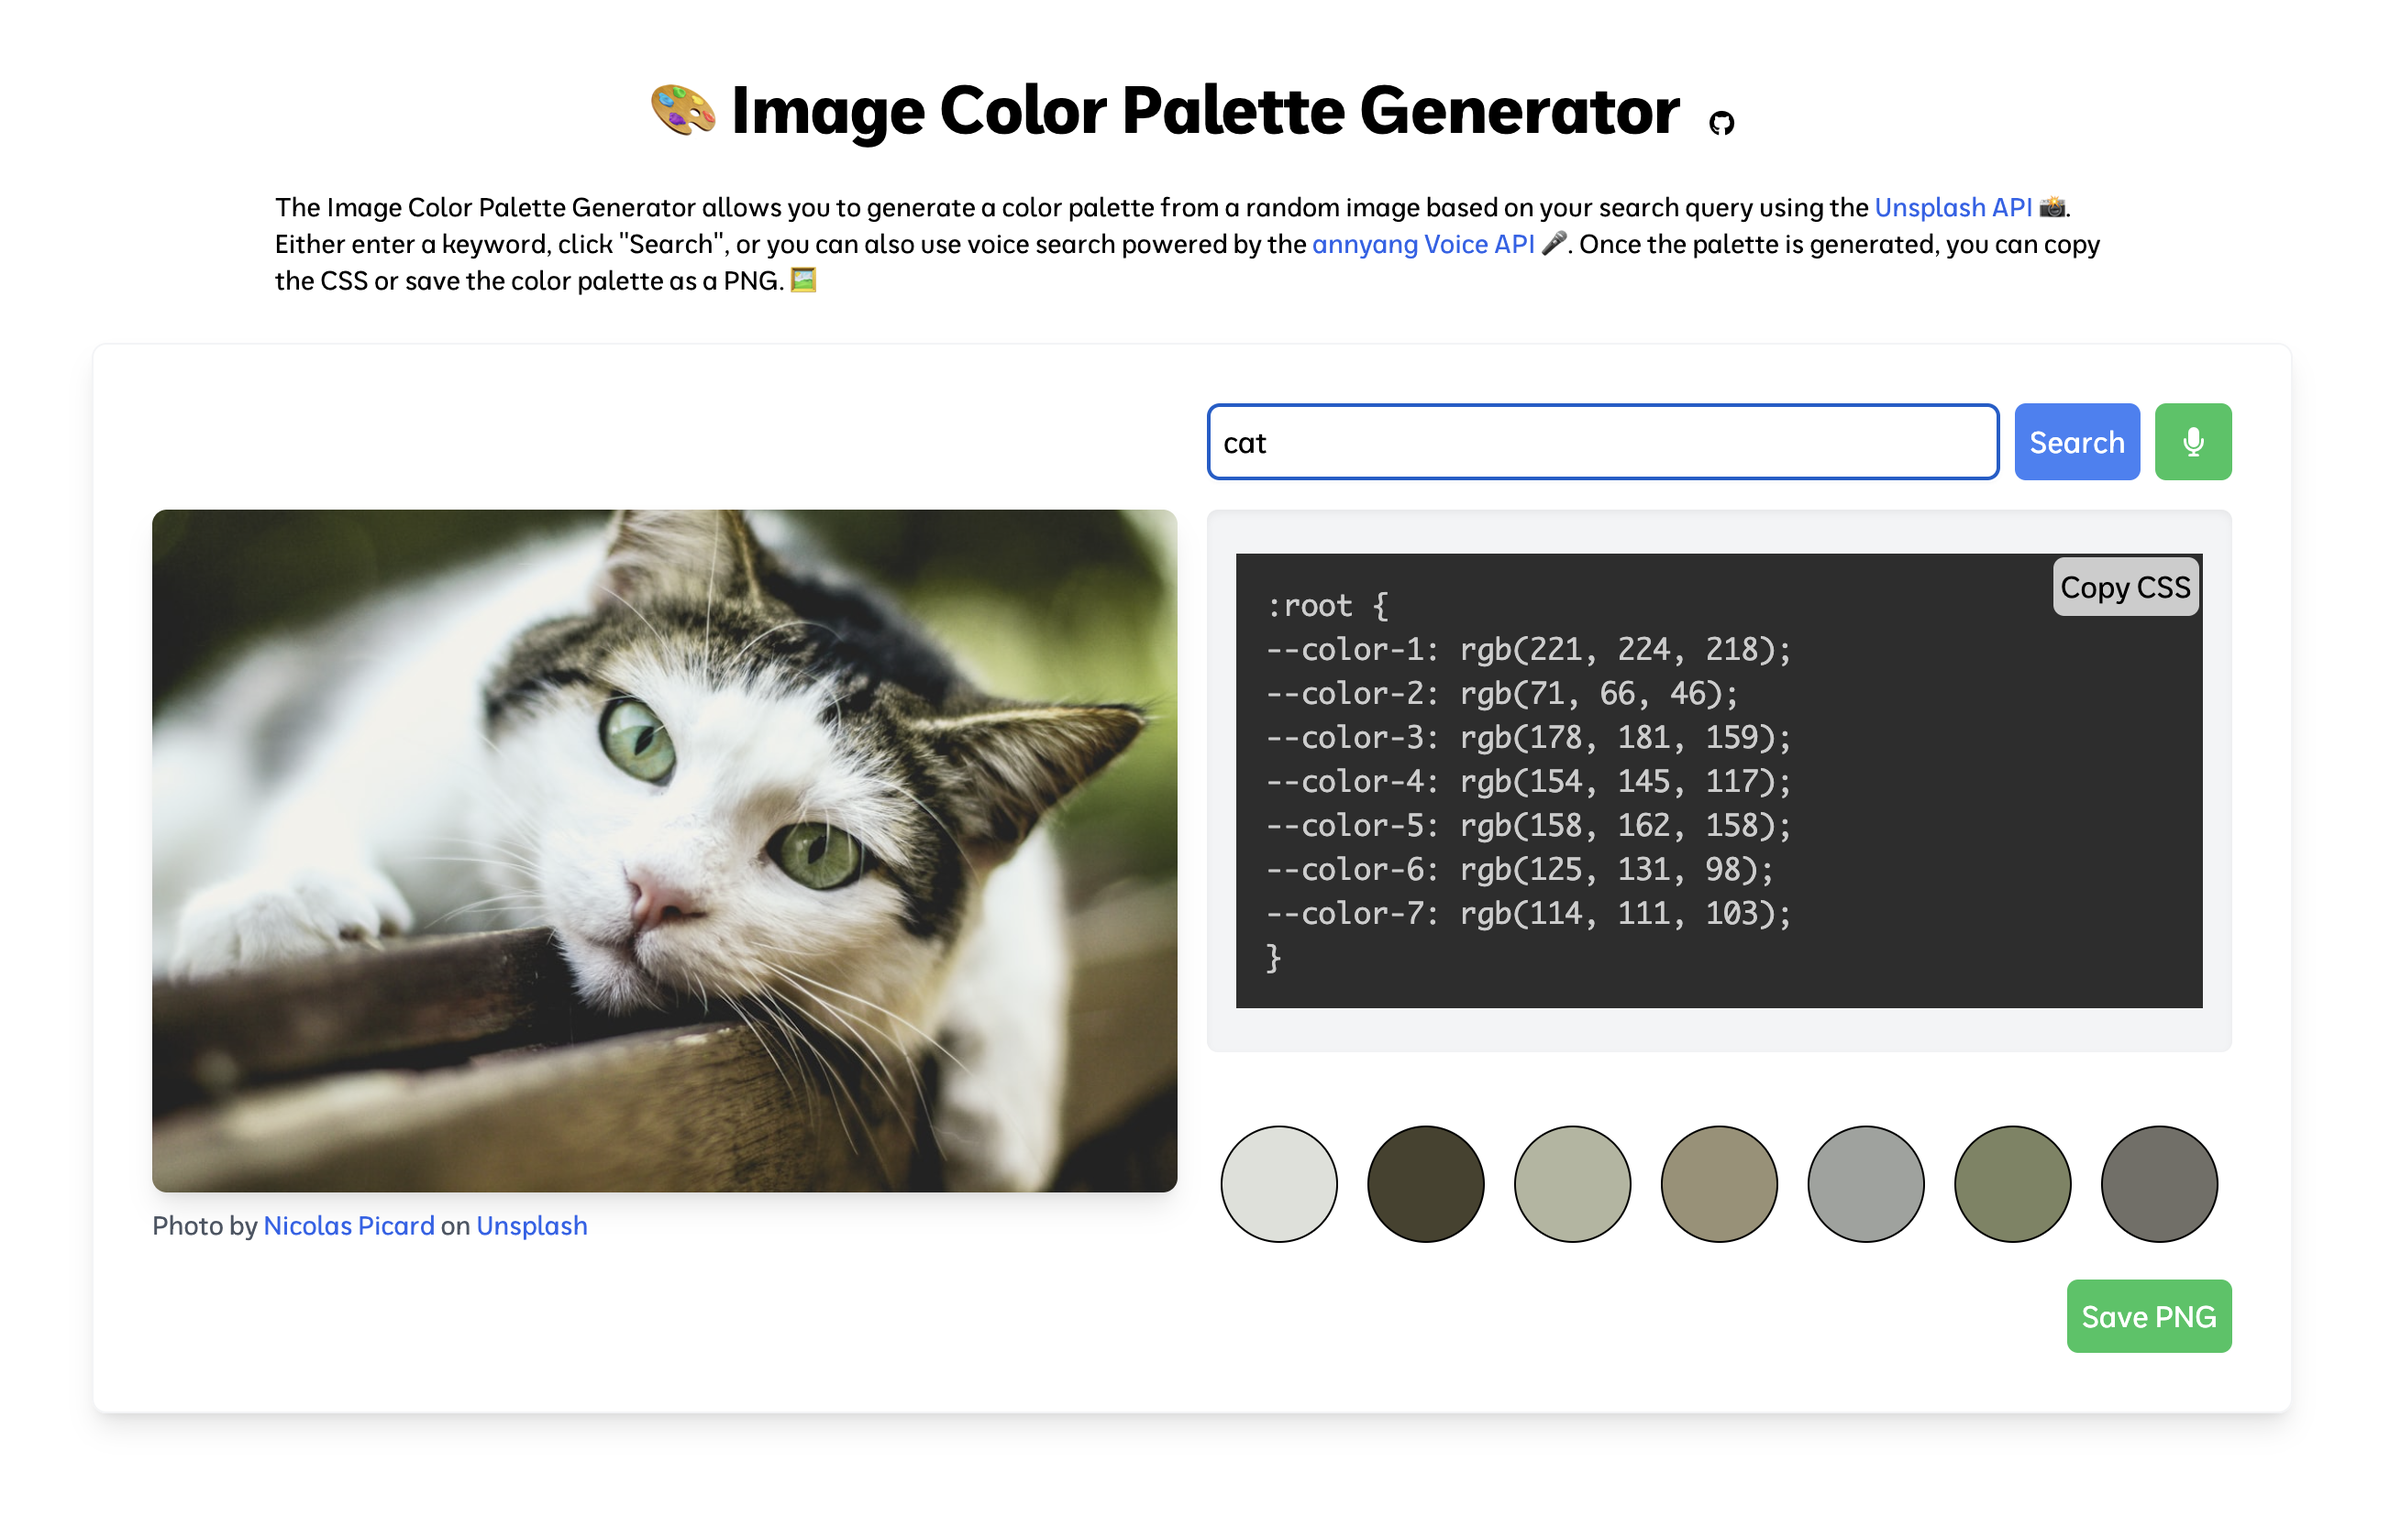
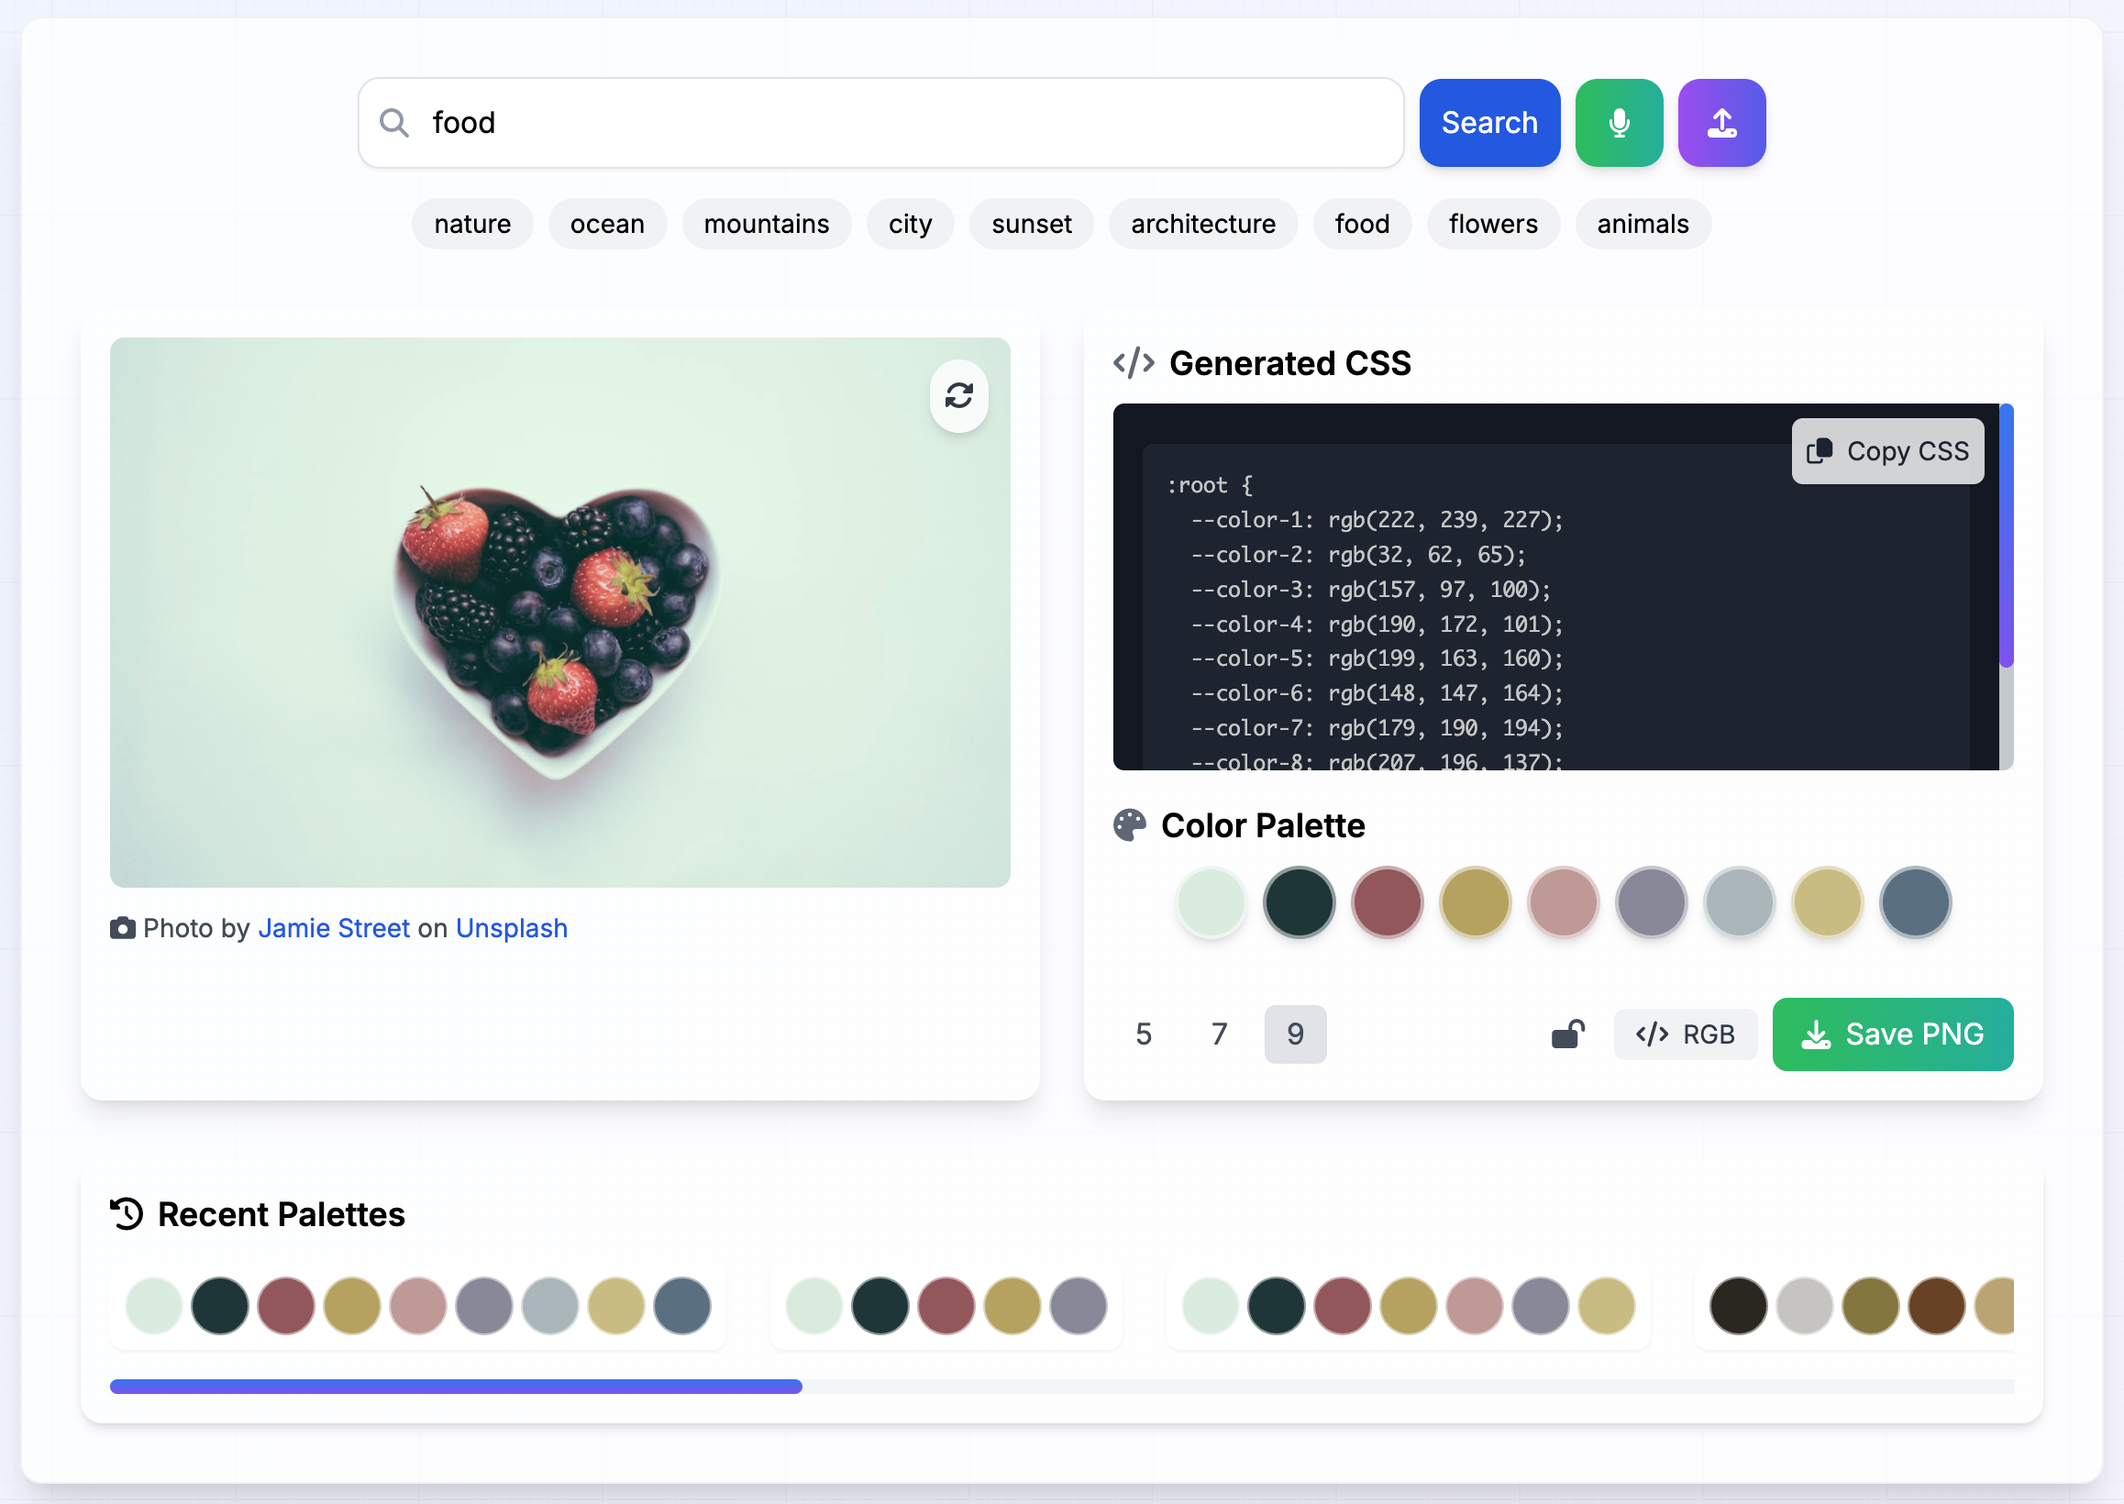
docs: update usage instructions in README.md; enhance features description and add new options

diff --git a/README.md b/README.md
@@ -92,9 +92,17 @@ Generate beautiful color palettes from images with ease. Perfect for designers, 
 ## How to Use
 
 1. Enter a keyword and click "Search" to fetch a random image from Unsplash.
-2. Use voice search by clicking the microphone icon.
-3. View the generated color palette.
-4. Copy the CSS or save the palette as a PNG.
+2. Use voice search by clicking the microphone icon or upload your own image.
+3. View the generated color palette with the following options:
+    - Switch between different color formats (HEX, RGB, HSL) using the format toggle.
+    - Lock specific colors to keep them while generating new palettes.
+    - Adjust palette size (5, 7, or 9 colors) from the settings menu.
+    - Drag and reorder colors to customize your palette.
+4. Save your work:
+    - Copy the CSS with one click to use in your projects.
+    - Download the palette as a PNG image.
+    - View your palette history to recall previously generated color schemes.
+5. Get real-time notifications for successful actions and helpful tips.
 
 ## Environment Variables
 
@@ -126,11 +134,3 @@ To comply with the Unsplash API guidelines:
 ## Contributing
 
 Pull requests are welcome! For major changes, please open an issue first to discuss what you would like to change.
-
-## Author
-
--   **Peter Benoit**
-
-## Contact
-
-If you have any questions, feel free to reach out to me via GitHub or other platforms.
